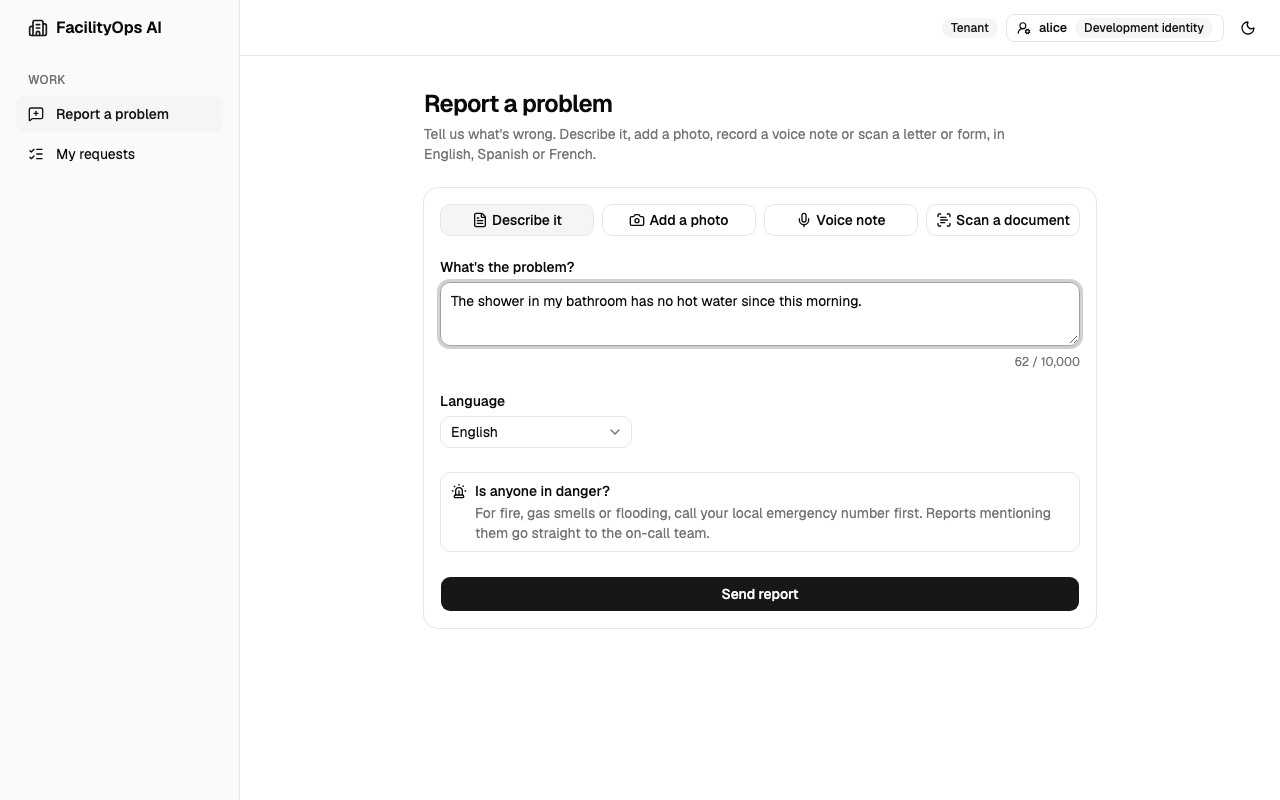
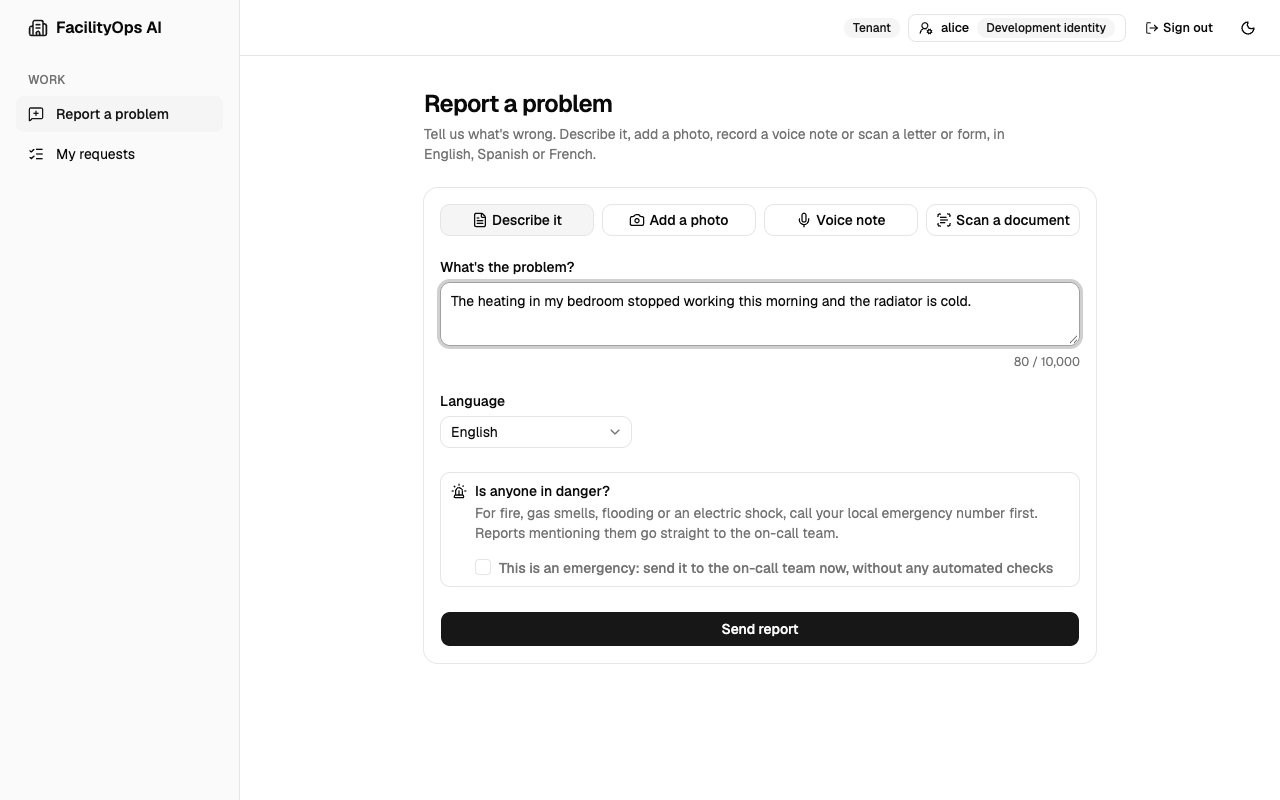
fixing

diff --git a/frontend/src/features/report/report-page.tsx b/frontend/src/features/report/report-page.tsx
@@ -313,9 +313,9 @@ export function ReportPage() {
           )}
 
           <Button
-            className="w-full"
+            // Solid red, not the soft destructive tint: this is the one button that must not look optional.
+            className={danger ? "w-full bg-red-600 text-white hover:bg-red-700 dark:bg-red-600 dark:hover:bg-red-700" : "w-full"}
             size="lg"
-            variant={danger ? "destructive" : "default"}
             disabled={!canSubmit}
             onClick={send}
           >

diff --git a/CLAUDE.md b/CLAUDE.md
@@ -1,127 +1,59 @@
 # FacilityOps AI
 
-Portfolio project: an AI-assisted Facility Management system that showcases agent orchestration,
-enterprise AI practices, PII handling, evaluation and Responsible AI on Microsoft Foundry / Azure.
-Intended for the owner's public GitHub profile, so the README, diagrams and demo quality matter.
+Portfolio project: an AI-assisted facility management system on Microsoft Foundry and Azure that shows agent
+orchestration, enterprise AI practices, PII handling, evaluation and Responsible AI. It is public on the owner's
+GitHub, so the README, diagrams and demo quality matter. Requirements and results live in
+[docs/specification.md](docs/specification.md); design in [docs/architecture.md](docs/architecture.md).
 
-## Status
-Phase 1 complete (2026-10-17; results in docs/specification.md §10). Done: Connect RPC API (protobuf in proto/, served from the FastAPI/ASGI host), deterministic coordinator, emergency screen,
-PII redaction adapter, Foundry classifier, Postgres/Alembic, golden set + eval runner + CI gate,
-user management + DB-backed RBAC (Entra authenticates, DB authorizes), security audit log,
-agent-run monitoring middleware, stored eval runs, admin report API. See docs/ for spec and architecture.
-photo/voice/document intake (Vision caption+OCR, Speech, Document Intelligence prebuilt-read), upload checks by
-file bytes (backend/app/domain/media.py), image Content Safety, Prompt Shields with attachment text as documents,
-review queue, work-order lifecycle, audited PII reveal,
-OpenTelemetry to App Insights (no content). Transparency: decision trail per request (decision_steps, adapters call
-`note(...)` with codes/counts only), model input/output in agent_run_contents (redacted; intake:read_all; views
-audited), prompt_versions, GetDecisionTrail (decisions:read), append-only audit triggers, `scripts/db.sh
-purge-expired`, structured logs with request_id/trace_id (core/logs.py). Every new agent or step must write to the
-trail. Phase 2 in progress: FR-60 (Translator), FR-70–76 (transparency), FR-20/FR-27 (escalation, outbox, event bus,
-incident worker: services/events.py, services/incident_worker.py, worker.py; UnavailableIncidentTeam fails closed)
-done; incident plans (domain/incident_plan.py, versioned incident_plans, DecideIncidentPlan with safety/cost
-gate in code) and the scripted scenario harness (evals/incidents/, 9 scenarios, 5 gates, runs in the integration
-suite) done. The team returns TeamOutcome(plan|reason) and never writes or acts. Next: synthetic fixture world +
-read-only tools (done: backend/app/agents/tools/, runtime.run_tool = READ ONLY txn + budget + trail step;
-registry.SPECIALIST_TOOLS least privilege; world in backend/app/fixtures/synthetic_world.json, `scripts/db.sh
-seed-world`) and Foundry IQ knowledge (done: agents/knowledge.py, GA 2026-04-01 extractive, no model in search;
-`scripts/knowledge.sh setup|search`; Prompt Shields on every passage, notes never returned) done. Agent prompts written (8 files,
-agents/prompts.py loader, tests/unit/test_prompts.py keeps them consistent with tools and fixtures). Magentic team done:
-agents/team.py (MagenticIncidentTeam; manager gpt-5.2 + harness specialists gpt-5.4-mini; budgets 10 rounds,
-250k tokens, 240 s; invented citations removed), agents/scripted.py (ScriptedChatClient for tests), wired in
-worker.py. Approved actions done: services/incident_actions.py (consumer action-executor; incident_actions table;
-plan actions carry technician_id / part_sku / quantity). Incident screens done: frontend/src/features/incidents/
-(panel on request + work order pages, escalate in review queue; tenants see incident_status only).
-Tenant notices done (FR-61): services/tenant_notices.py, tenant_notices table, SendTenantNotice; plan.tenant_notice is
-the communicator's draft; AzureTranslator.translate(target_language=...). FR-62: `run_eval --translate-first`, measured, not adopted (spec §10).
-Live incident eval built (evals/incidents/live.py, `run_incident_scenarios --mode live [--store]`), not yet run in
-full (cost; owner deferred it). Agents run with store=False. Phase 3 in progress: web views FR-30/31/33 done; infra/ (azd + Bicep, validated with `az deployment sub validate`,
-NOT deployed: needs the owner's go-ahead, creates paid resources; docs/deployment.md), db/engine.py (Entra token
-DB auth), services/service_bus.py (SERVICE_BUS_NAMESPACE), RESPONSIBLE_AI.md done. Next: azd up (approval), red-team
-scan (cost, approval), demo GIF. FR-26 checkpoint resume is a follow-up.
-Identity: residents = Entra External ID (provider `entra_external`, default role tenant), staff = workforce
-Entra ID (no default role); backend/app/api/token_validation.py; setup in docs/identity-setup.md and
-scripts/setup_entra_external.sh. Frontend talks gRPC-Web (createGrpcWebTransport).
-Frontend: `frontend/` (React 19 + TS + Vite + Tailwind 4 + shadcn/ui, Node 24 via .nvmrc), spec in
-docs/frontend-specification.md. UI shows actions by permission from GetMe; revealed PII only in component
-state; after a .proto change run `npm run generate` in frontend/ too.
-Run locally with `scripts/dev.sh` (both; `backend` / `frontend` alone; `--entra`); it wraps
-`uvicorn backend.app.main:create_app --factory` (no module-level app). Or the whole
-stack with `docker compose up --build -d` (Dockerfile = runtime deps only; Postgres on host port 5433;
-optional Azure settings in gitignored `.env.docker`).
-Before writing agent code, check the current Microsoft Agent Framework and Foundry SDK APIs
-(they change quickly); don't rely on memory.
+## What exists
+- **Intake pipeline** (`backend/app/domain/workflow.py`, deterministic): declared emergency or local emergency rules
+  first (`domain/emergency.py`, no AI), media checks and reading (Vision, Speech, Document Intelligence), PII
+  redaction (Azure AI Language), Content Safety + Prompt Shields, Foundry classifier, routing in code, work order,
+  approval for priority ≥ 4. Every step writes to the decision trail (`note(...)` with codes and counts only).
+- **Incident team** (`backend/app/agents/`): Magentic manager (gpt-5.2) and six harness specialists (gpt-5.4-mini)
+  with read-only tools and a Foundry IQ knowledge base. Runs off the request path via the outbox and the incident
+  worker. Budgets in `TeamBudgets` (tests keep the docs in step). The team returns a plan and never acts: a facility
+  manager decides (`DecideIncidentPlan`, safety and cost gate in code), then the application carries out actions
+  (`services/incident_actions.py`) and translates approved tenant notices (`services/tenant_notices.py`).
+- **Frontend** (`frontend/`): React 19 + TS + Vite + Tailwind 4 + shadcn/ui, Node 24 via `.nvmrc`, gRPC-Web. UI shows
+  actions by permission from `GetMe`; revealed PII lives only in component state.
+- **Identity**: residents on Entra External ID (provider `entra_external`, default role tenant), staff on workforce
+  Entra ID (no default role); `backend/app/api/token_validation.py`, docs/identity-setup.md. Entra authenticates,
+  the database authorizes.
+- **Azure deployment**: `azure.yaml` + `infra/` (Bicep), docs/deployment.md. Validated, not deployed: `azd up` creates
+  paid resources and needs the owner's go-ahead.
+- **Not done** (deliberately, cost): live incident evaluation run, red-team scan, deployment; FR-26 checkpoint resume.
 
-Demo accounts (alice tenant, fm, tech, local-developer admin; no passwords, dev identities) are created by
-migration 0004 unless APP_ENV=production or SEED_DEMO_ACCOUNTS=false; `scripts/db.sh remove-demo-accounts` /
-`add-demo-accounts`; keep backend/app/services/demo_accounts.py in step with the migration's frozen list.
-Migrations: `scripts/db.sh` (no args = create DB if needed + apply all), `up|down|status|new "msg"|check|reset|sql`
-(wraps Alembic; user-facing docs show only db.sh commands; new files are named
-`NNNN_slug.py`). Commands (run from repo root): `python -m pytest -q backend/tests/unit`,
-`python -m pytest -q backend/tests/integration` (needs local PostgreSQL),
-`python -m evals.run_eval [--mode live] [--store]`, `python -m evals.run_media_eval` (live), `python -m backend.app.cli grant-role ...`.
-API changes: edit `proto/facilityops/v1/*.proto`, run `buf lint && buf generate` (venv active), implement in
-`backend/app/api/rpc/`, and add the RPC to `backend/app/api/policy.py` (permissions, never role names; RPCs
-without a policy are denied). Never edit `backend/app/gen/`. No REST endpoints except `/health/live`.
-Roles/permissions change only through a new Alembic migration; keep `SYSTEM_ROLE_PERMISSIONS` in sync.
+## Commands (from the repo root)
+- Run: `scripts/dev.sh` (API + worker + web; `backend`, `worker`, `frontend` alone; `--entra`). It wraps
+  `uvicorn backend.app.main:create_app --factory` (no module-level app). Or `docker compose up --build -d`.
+- Database: `scripts/db.sh` (no args = create the database if needed and migrate), `up|down|status|new "msg"|check|
+  reset|sql|seed-world|remove-demo-accounts|add-demo-accounts|purge-expired`. User-facing docs show only `db.sh`,
+  never raw Alembic. New migrations are named `NNNN_slug.py`.
+- Tests: `python -m pytest -q backend/tests/unit`, `python -m pytest -q backend/tests/integration` (local
+  PostgreSQL), `cd frontend && npm run test`.
+- Evals: `python -m evals.run_eval [--mode live] [--store]`, `python -m evals.run_emergency_eval`,
+  `python -m evals.run_media_eval` (live), `python -m evals.run_incident_scenarios [--mode live]`.
+- CLI: `python -m backend.app.cli grant-role ...`.
+
+## Rules
+- **API changes**: edit `proto/facilityops/v1/*.proto`, run `buf lint && buf generate` (venv active) and
+  `npm run generate` in `frontend/`, implement in `backend/app/api/rpc/`, add the RPC to `backend/app/api/policy.py`
+  (permissions, never role names; RPCs without a policy are denied). Never edit `backend/app/gen/`. No REST
+  endpoints except `/health/live`.
+- **Roles and permissions** change only through a new Alembic migration; keep `SYSTEM_ROLE_PERMISSIONS` in sync.
+- **Demo accounts** (alice, fm, tech, local-developer) come from migration 0004, never in production; keep
+  `backend/app/services/demo_accounts.py` in step with its frozen list.
+- **Agent code**: check the current Microsoft Agent Framework and Foundry SDK APIs first (they change quickly);
+  one prompt file per agent in `backend/app/prompts/`; every new agent or step writes to the decision trail.
+- **Events**: the team never runs inside an RPC; ids only in events; idempotent consumers; dead letters go to a
+  person. PostgreSQL outbox locally, Service Bus in Azure.
+- **PII**: redacted text plus a protected mapping only authorized roles can reveal; logs, traces, analytics and
+  eval data never hold PII.
+- **Synthetic data only**: fake buildings, tenants and manuals. Nothing real in the public repo.
+- **Commit only when the user asks.**
 
 ## Azure environment
-- Use the existing Azure subscription and Foundry project; don't create new ones unless asked.
-- Endpoint lives in `.env` (`FOUNDRY_ENDPOINT`), which is gitignored. Never commit keys or endpoints.
-- Auth: Entra ID via `DefaultAzureCredential` (the user is signed in with `az login`). No API keys.
-
-## Architecture
-**Workflow (deterministic intake pipeline)**, run for every request (text, photo, voice, scanned document):
-1. Content Safety + Prompt Shields
-2. PII detection/redaction (Azure AI Language)
-3. Classify category (HVAC, plumbing, electrical, security...) and priority
-4. Emergency bypass: gas/fire/flood go straight to a human on-call, not the AI
-5. Create work order
-6. Human approval when cost or safety risk is above a threshold
-
-**Magentic team (dynamic) for complex incidents**: the manager agent plans and re-plans across:
-- Diagnostician: RAG over equipment manuals (Azure AI Search)
-- Asset historian: function tools over maintenance history (SQL/Cosmos)
-- Safety & compliance: lockout/tagout rules, regulatory checks
-- Procurement: parts, vendor SLAs and contracts
-- Scheduler: technician availability and skills
-- Communicator: multilingual tenant notices
-Cap the rounds and tokens per run. Use smaller models for specialists to control cost.
-- **Harness:** specialists are `create_harness_agent` agents with the FacilityOps profile (spec §5.3): tool loop
-  limit, compaction, run-scoped history, skills, middleware on; todo/modes, file memory, web search, tool
-  auto-approval off; never shell, file access or background agents.
-- **Knowledge vs tools vs skills:** documents in a Foundry IQ knowledge base on AI Search, reached only through
-  read-only tools (Prompt Shields on retrieved text, citations); data through read-only function tools; procedures
-  as harness skills.
-- **Events/topics:** the team never runs inside an RPC. Transactional outbox → topic → incident worker; ids only in
-  events; idempotent consumers; dead letters to human review. PostgreSQL bus locally, Service Bus topic in Azure
-  (spec §6.2). Agent Framework has no topics; they sit between runs.
-- **Eval harness:** `evals/incidents/` scenarios with fake tools and fault injection; scripted mode gates every PR,
-  live mode measures groundedness and tool-call accuracy (spec §10.1).
-- Knowledge uses the existing serverless AI Search service (endpoint in `.env` as `AZURE_SEARCH_ENDPOINT`), Entra
-  auth. New Azure resources (Service Bus for Phase 3) need the owner's approval first.
-- **Translator (Phase 2, important; FR-60 done):** Azure AI Translator on the existing AI Services resource (Entra, path
-  `/translator/text/v3.0/translate`), redacted text only, placeholders survive. FR-60 staff translation to English,
-  FR-61 approved tenant notices into the tenant's language (application translates, not an agent), FR-62
-  translate-then-classify only if the fairness eval improves (spec §4.2.1).
-
-## Cross-cutting requirements
-- **Enterprise:** managed identity, RBAC roles (tenant / technician / facility manager),
-  Key Vault, an audit trail of agent decisions, OpenTelemetry tracing to App Insights.
-- **PII:** not all-or-nothing. Store redacted text plus a protected mapping that only authorized roles
-  can reveal (a technician needs the unit number; logs, analytics and eval data never hold PII).
-- **Evaluation:** synthetic golden set (~100 requests). Metrics: classification accuracy,
-  emergency recall (hard CI gate), groundedness, tool-call accuracy. Foundry evaluators plus
-  custom metrics, run in GitHub Actions on PRs.
-- **Responsible AI:** prompt-injection test cases, counterfactual fairness evals (same request with a
-  different name, language or building should get the same priority), AI Red Teaming agent (PyRIT)
-  report, human oversight for safety-critical and costly actions, `RESPONSIBLE_AI.md` transparency note.
-- **Synthetic data only:** fake buildings, tenants and manuals. Nothing real in the public repo.
-
-## Phases
-1. MVP: intake workflow, PII, classification, eval set and CI gate
-2. Magentic incident team, RAG over sample manuals, approvals
-3. Web UI (tenant + manager views), `azd`/Bicep infra, red-team report, architecture diagram, demo GIF
-
-## Conventions
-- Python
-- Commit only when the user asks
+- Use the existing Azure subscription and Foundry project; don't create new resources without the owner's approval.
+- Endpoints live in `.env` (gitignored, e.g. `FOUNDRY_ENDPOINT`). Never commit keys, endpoints or resource names.
+- Auth: Entra ID via `DefaultAzureCredential` (`az login`). No API keys.

diff --git a/docs/screenshots.md b/docs/screenshots.md
@@ -1,12 +1,14 @@
 # Screenshots
 
-One web app, four workspaces: each person sees only what their role allows. Screenshots use the synthetic demo
-data from `python scripts/seed_demo.py`; every name and address is invented.
+One web app, four workspaces: each person sees only what their role allows. Screenshots use synthetic data only
+(`python scripts/seed_demo.py`, plus incidents from live runs of the AI incident team on the synthetic facility
+world); every name, building and manual is invented. For a 70-second walkthrough, see the demo at the top of the
+[README](../README.md).
 
 ## Tenant: report a problem and follow it
 
 Report by text, photo, voice note or a scanned letter or form, in English, Spanish or French. Emergencies (gas,
-fire, flooding) skip the AI and go straight to the on-call team. Uploads are checked by their bytes, pictures by
+carbon monoxide, fire, electrical hazards, flooding) skip the AI and go straight to the on-call team. Uploads are checked by their bytes, pictures by
 Content Safety, and text found in a photo or scan by Prompt Shields as a document, so an instruction hidden in a
 scan can't steer the AI. Names and phone numbers are redacted before any AI sees them, shown here as "personal
 detail".
@@ -19,6 +21,15 @@ detail".
   <img src="images/tenant-mobile-voice.png" alt="Recording a voice note on a phone" width="300">
   <img src="images/tenant-mobile-document.png" alt="Sending a scanned form from a phone" width="300">
 </p>
+
+Rules can miss an unusual description of an emergency, so a tenant can also say so directly: ticking **This is an
+emergency** sends the report to the on-call team at once, before any check or AI, even with no text. Notices from
+facility management appear on the request; a tenant who wrote in Spanish or French reads them machine-translated
+into their language, with the approved English one click away.
+
+| Declaring an emergency | A notice from facility management |
+|---|---|
+| ![The report form with "This is an emergency" ticked and a red "Send to the on-call team now" button](images/tenant-emergency.png) | ![A tenant's request with a message from facility management](images/tenant-notice.png) |
 
 ## Facility manager: review queue, approvals and assignment
 
@@ -39,6 +50,28 @@ clearly labelled, with the tenant's original one click away. Only redacted text 
 personal details works on the translation too.
 
 ![A French request shown to a facility manager in English, with a personal detail revealed](images/manager-translation.png)
+
+## Facility manager: the AI incident team
+
+High-priority equipment problems go to a team of AI agents that investigates with read-only tools and the
+equipment manuals, then proposes a plan. Every claim cites the manual section, procedure or record it came from;
+a claim without one is marked unverified. A plan with a safety block can't be approved: here the boiler's gas
+work permit has expired, so code disables **Approve plan** and the manager can only revise or reject it.
+
+![An incident plan with a safety block: the expired permit, the evidence with citations, and the proposed actions](images/manager-incident-plan.png)
+
+After a revision is approved, the application (not the AI) carries out each action and shows what it did: the
+lockout is recorded, the named technician is assigned, and the tenant notice, approved by the manager, is sent.
+
+![An approved plan: lockout recorded, technician assigned, tenant notice sent, open questions and the notice text](images/manager-incident-actions.png)
+
+### Why this decision
+
+Every request has a decision trail: each check and its result, every model call with the exact (redacted) input
+and output, every tool call and every human decision. Opening the model content is itself recorded in the audit
+log.
+
+<p align="center"><img src="images/decision-trail.png" alt="The decision trail of a request: emergency screen, PII redaction, Content Safety, classification and routing, each with its result" width="520"></p>
 
 ## Technician: my work orders
 
